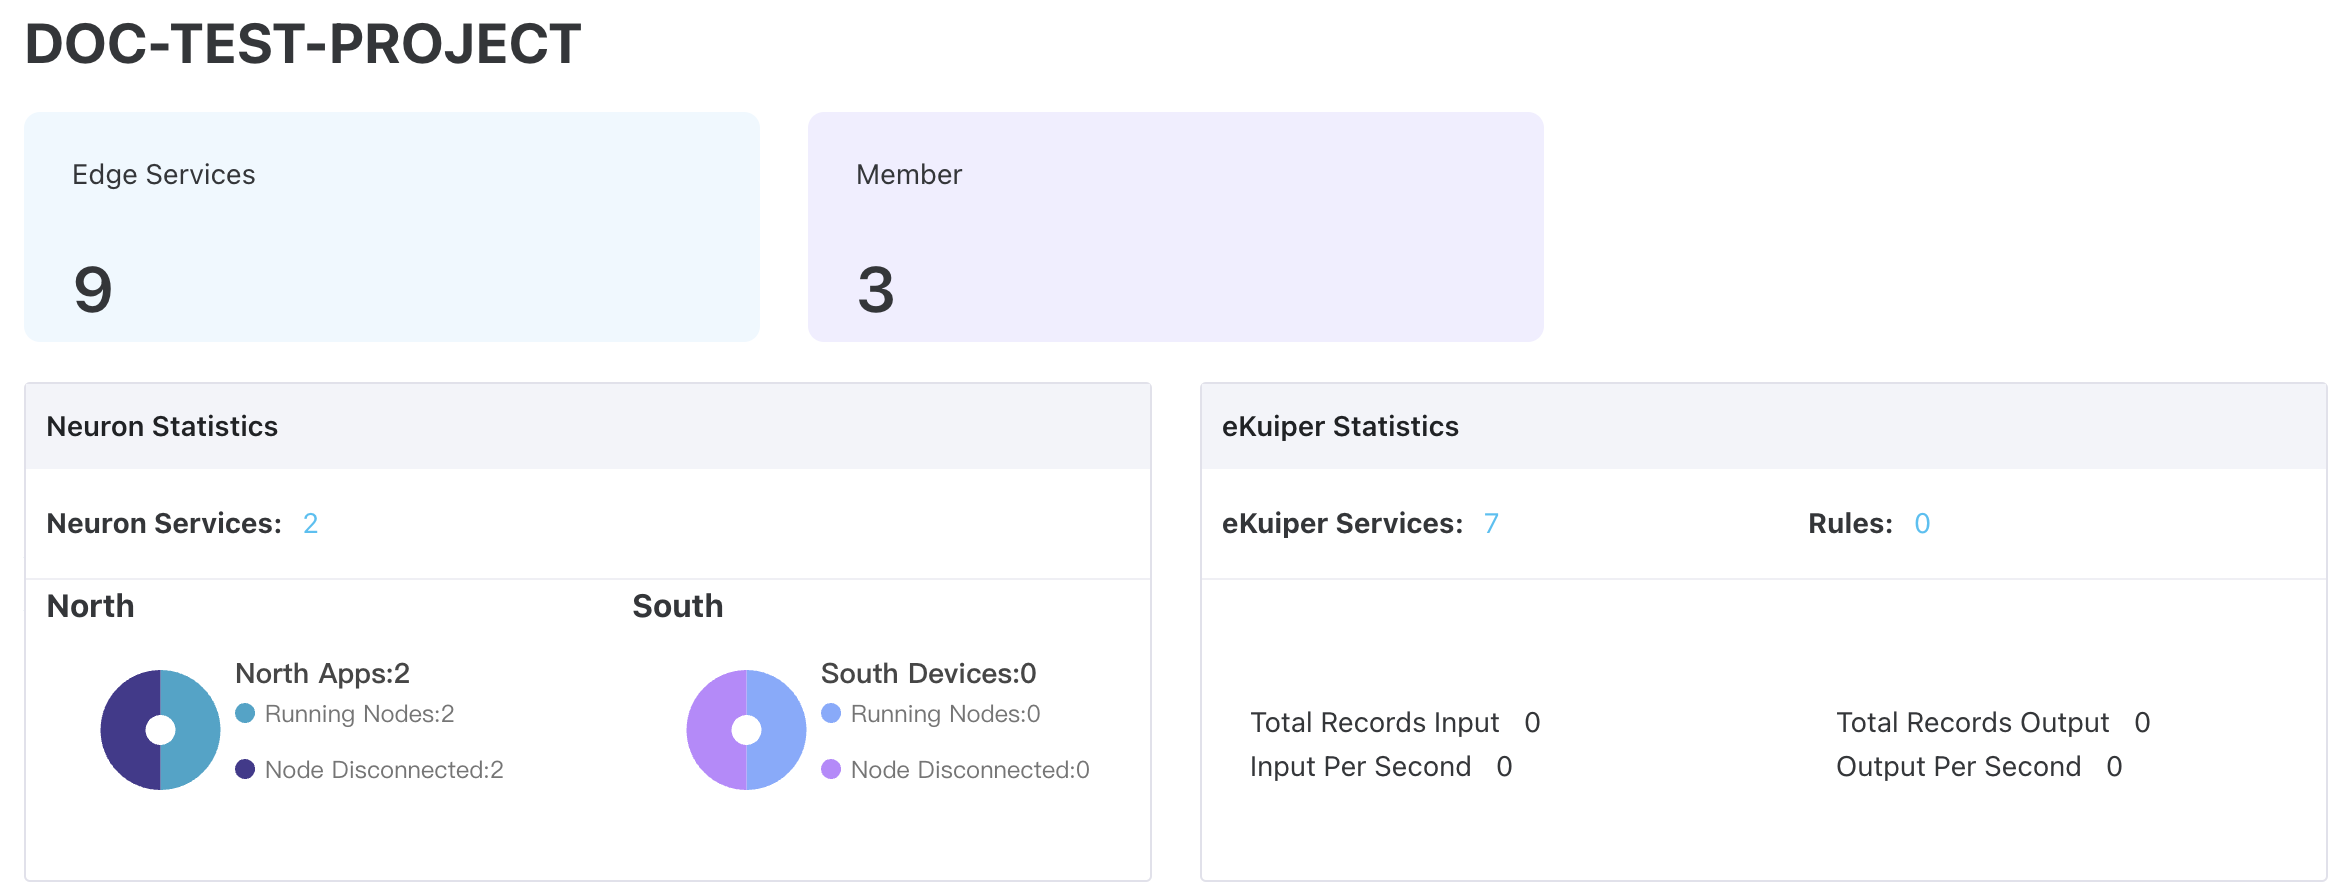
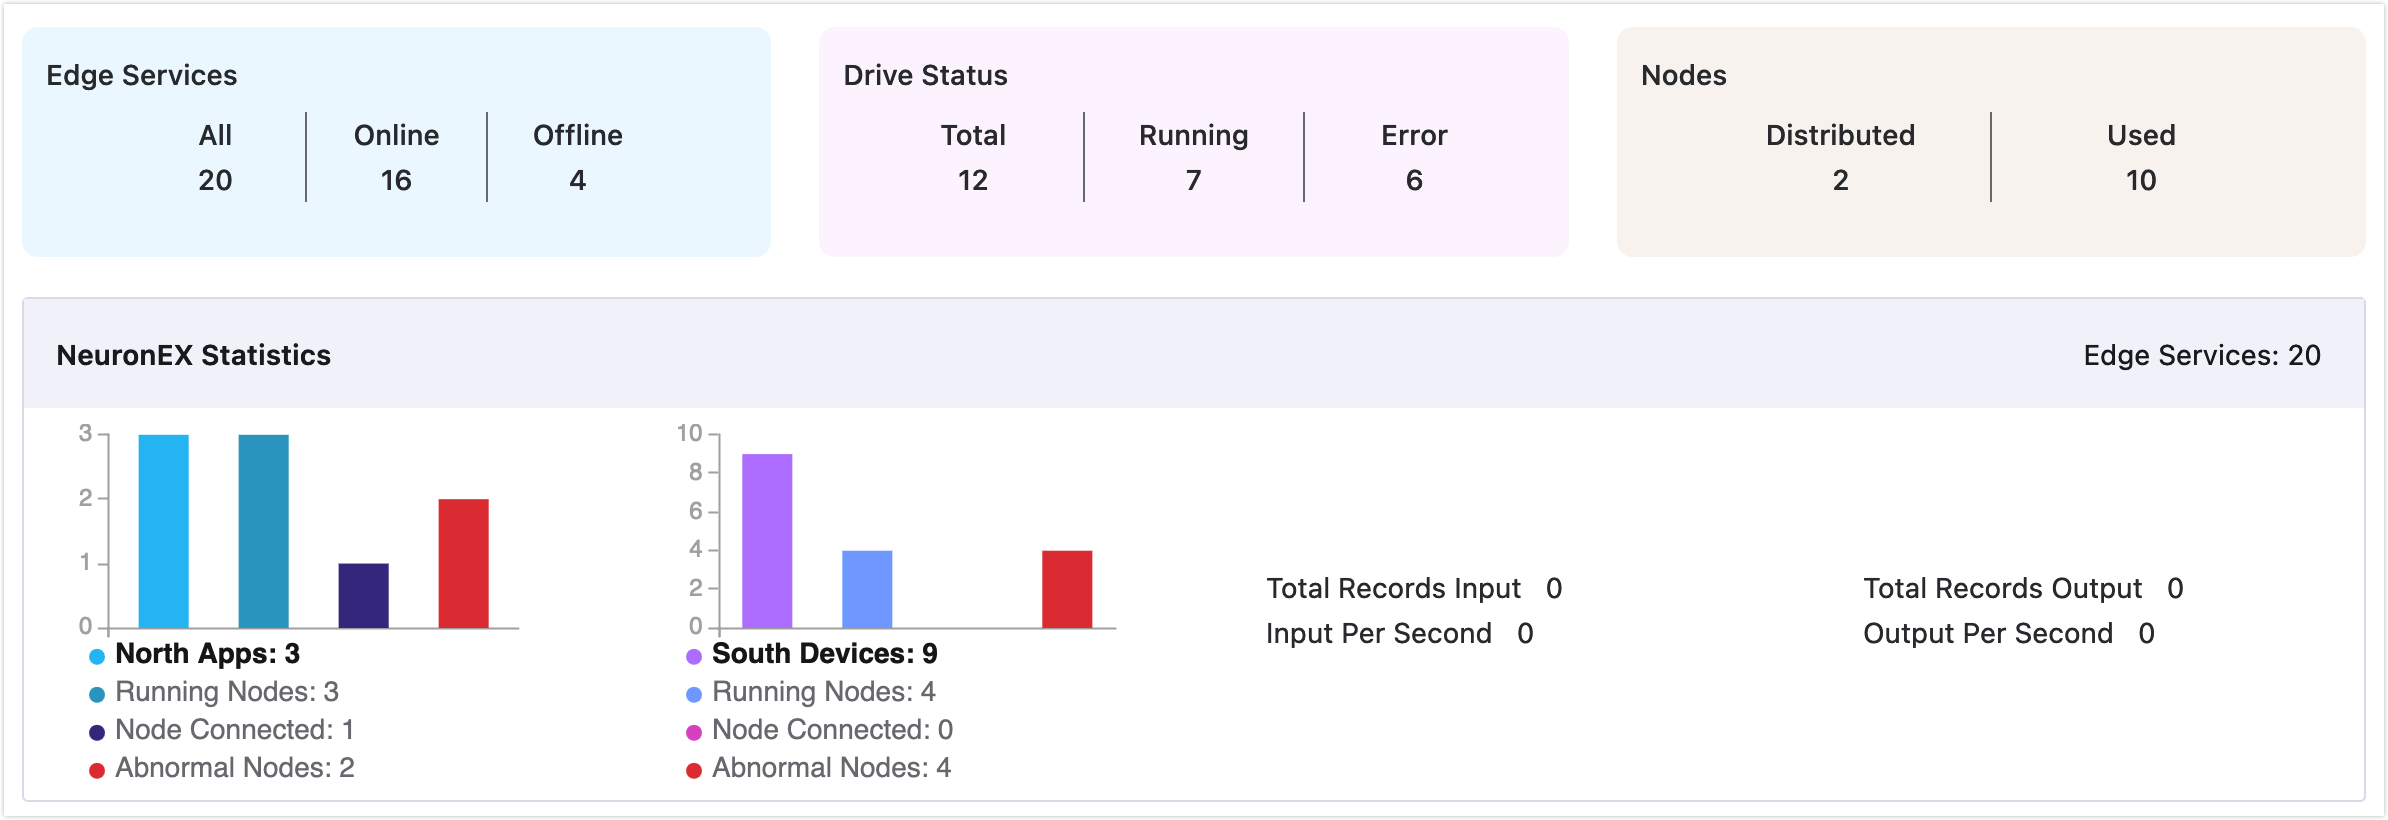
docs: update for edge service statistics

diff --git a/ecp/en_US/edge_service/edge_project_statistics.md b/ecp/en_US/edge_service/edge_project_statistics.md
@@ -8,32 +8,27 @@ After finishing creating the edge service instances or adding existing edge serv
 
 ## Basic Statistics
 
-- Edge Services: The number of all or filtered edge services.
-- Members: The number of members in the project.
+- Edge Services: The number of all edge services, online edge services and offline edge services.
+- Drive Status: The number of total nodes, running nodes and error nodes in the project.
+- Tags: The number of tags which have been allocated to edge services and which have been used in edge services.
 
-## Neuron Statistics
+## NeuronEX Statistics
 
-- Neuron Services:  The number of Neuron instances managed in the system.
+- Edge Services:  The number of NeuronEX instances managed in the system.
 - North: Northbound statistical information
-  - North Apps: The total number of northbound nodes in all Neuron instances.
-  - Running Nodes: The total number of northbound nodes currently running in all Neuron instances.
-  - Node Disconnected: The total number of disconnected or offline northbound nodes in all Neuron instances.
+  - North Apps: The total number of northbound nodes in all NeuronEX instances.
+  - Running Nodes: The total number of northbound nodes currently running in all NeuronEX instances.
+  - Node Connected: The total number of connected northbound nodes in all NeuronEX instances.
+  - Abnormal Nodes: The total number of abnormal northbound nodes in all NeuronEX instances.
 - South: Southbound statistical information
-  - South Devices: The total number of southbound nodes in all Neuron instances.
-  - Running Nodes: The total number of southbound nodes currently running in all Neuron instances.
-  - Node Disconnected: The total number of disconnected or offline southbound nodes in all Neuron instances.
-- Abnormal Node Display: Neuron instances in abnormal state. Click **More** to view all abnormal instances.
-
-## eKuiper Statistics
-
-The eKuiper statistics card provides insights into:
-
-- eKuiper Services: Total number of eKuiper instances managed in ECP.
-- Rules: Total number of rules across all eKuiper instances.
-- Total Records Input: The total input data in all running eKuiper instances.
-- Total Records Output: The total output data in all running eKuiper instances.
-- Input Per Second: The average amount of data flowing into all running eKuiper instances per second.
-- Output Per Second: The average amount of data flowing out of all running eKuiper instances per second.
-- Error nodes: eKuiper instances in abnormal state. Click **More** to view the full list. 
+  - South Devices: The total number of southbound nodes in all NeuronEX instances.
+  - Running Nodes: The total number of southbound nodes currently running in all NeuronEX instances.
+  - Node Connected: The total number of connected southbound nodes in all NeuronEX instances.
+  - Abnormal Nodes: The total number of abnormal southbound nodes in all NeuronEX instances.
+- Data flow information
+  - Total Records Input: The total input data in all NeuronEX instances.
+  - Total Records Output: The total output data in all NeuronEX instances.
+  - Input Per Second: The average amount of input data per second in all NeuronEX instances.
+  - Output Per Second: The average amount of output data per second in all NeuronEX instances.
 
 Underneath these two cards, you'll find the edge service list. This provides details about each instance, including category, name, endpoint, version, connection type, status, tags, and agent name. Moreover, you can perform O&M actions per instance.

diff --git a/ecp/zh_CN/edge_service/edge_project_statistics.md b/ecp/zh_CN/edge_service/edge_project_statistics.md
@@ -6,30 +6,28 @@
 
 ## 基础统计信息
 
-- 边缘服务：全部或经筛选后的边缘服务数量。
-- 成员：项目内成员数量。
+- 边缘服务：项目内全部、在线及离线的边缘服务数量。
+- 驱动状态：项目内北向及南向节点总数量、运行中节点数量及异常节点数量。
+- 点位：项目内已分配给边缘服务的点位数量及边缘服务中实际已使用的点位数量。
 
-## Neuron 统计信息
+## NeuronEX 统计信息
 
-- Neuron 总数：系统内管理的 Neuron 实例数量。
-- 北向：北向统计信息
-   - 节点总数：所有 Neuron 实例的北向节点总和。
-   - 节点运行中总数：所有 Neuron 实例中正在运行的北向节点总和。
-   - 节点已断连总数：所有 Neuron 实例中已断连或离线的北向节点总和。
-- 南向：南向统计信息
-   - 节点总数：所有 Neuron 实例的南向节点总和。
-   - 节点运行中总数：所有 Neuron 实例中正在运行的南向节点总和。
-   - 节点已断连总数：所有 Neuron 实例中已断连或离线的南向节点总和。
-- 异常节点展示：处于异常状态的 Neuron 实例，点击**更多**查看所有异常实例。
+- 边缘服务总数：项目内所有 NeuronEX 实例数。
+- 北向：北向设备统计信息
+   - 节点总数：项目内所有 NeuronEX 实例的北向节点总和。
+   - 节点运行中总数：项目内所有 NeuronEX 实例中正在运行的北向节点总和。
+   - 节点已连接总数：项目内所有 NeuronEX 实例中已连接的北向节点总和。
+   - 节点异常总数：项目内所有 NeuronEX 实例中异常的北向节点总和。
+- 南向：南向设备统计信息
+   - 节点总数：项目内所有 NeuronEX 实例的南向节点总和。
+   - 节点运行中总数：项目内所有 NeuronEX 实例中正在运行的南向节点总和。
+   - 节点已连接总数：项目内所有 NeuronEX 实例中已连接的南向节点总和。
+   - 节点异常总数：项目内所有 NeuronEX 实例中异常的南向节点总和。
 
-## eKuiper 统计信息
-
-- eKuiper 总数：系统内管理的 eKuiper 实例数量
-- 规则总数：所有 eKuiper 实例的规则数量总和
-- 总记录输入：所有运行 eKuiper 实例中的总输入数据
-- 总记录输出：所有运行 eKuiper 实例中的总流出数据
-- 平均每秒输入：所有运行 eKuiper 实例平均每秒的数据流入量
-- 平均每秒输出：所有运行 eKuiper 实例平均每秒的数据流出量
-- 异常节点展示：处于异常状态的 eKuiper 实例，点击**更多**查看所有异常实例
+- 数据流入流出统计信息
+  - 总记录输入：项目内所有 NeuronEX 实例中的总输入数据。
+  - 总记录输出：项目内所有 NeuronEX 实例中的总流出数据。
+  - 平均每秒输入：项目内所有 NeuronEX 实例中平均每秒的数据流入量。
+  - 平均每秒输出：项目内所有 NeuronEX 实例中平均每秒的数据流出量。
 
 您还可在统计卡片下查看目前 ECP 管理的边缘服务列表，其中包括每个实例的详细信息，包括类型、名称、EndPoint、版本、连接方式、状态、标签和边缘代理名称。此外，你还可以对每个实例执行运维操作。
